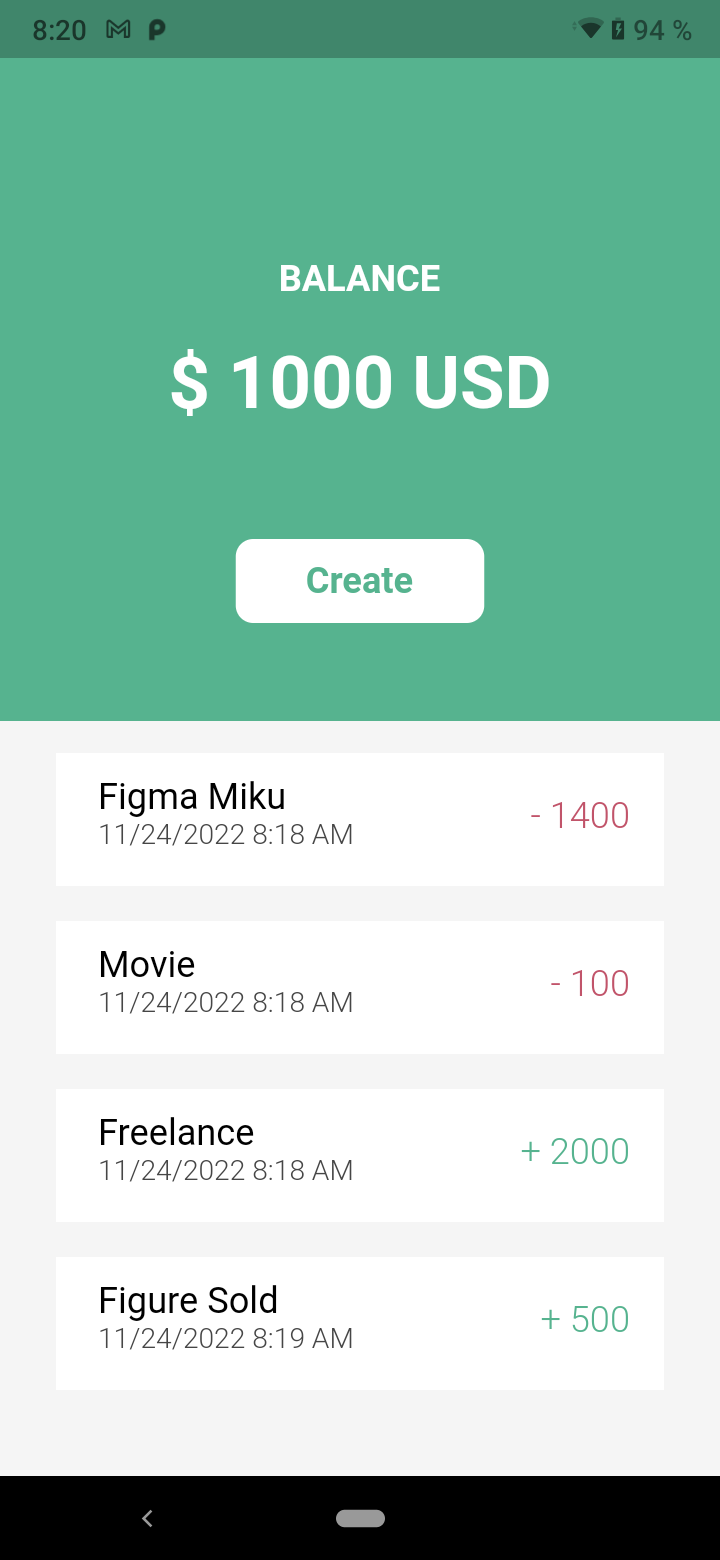
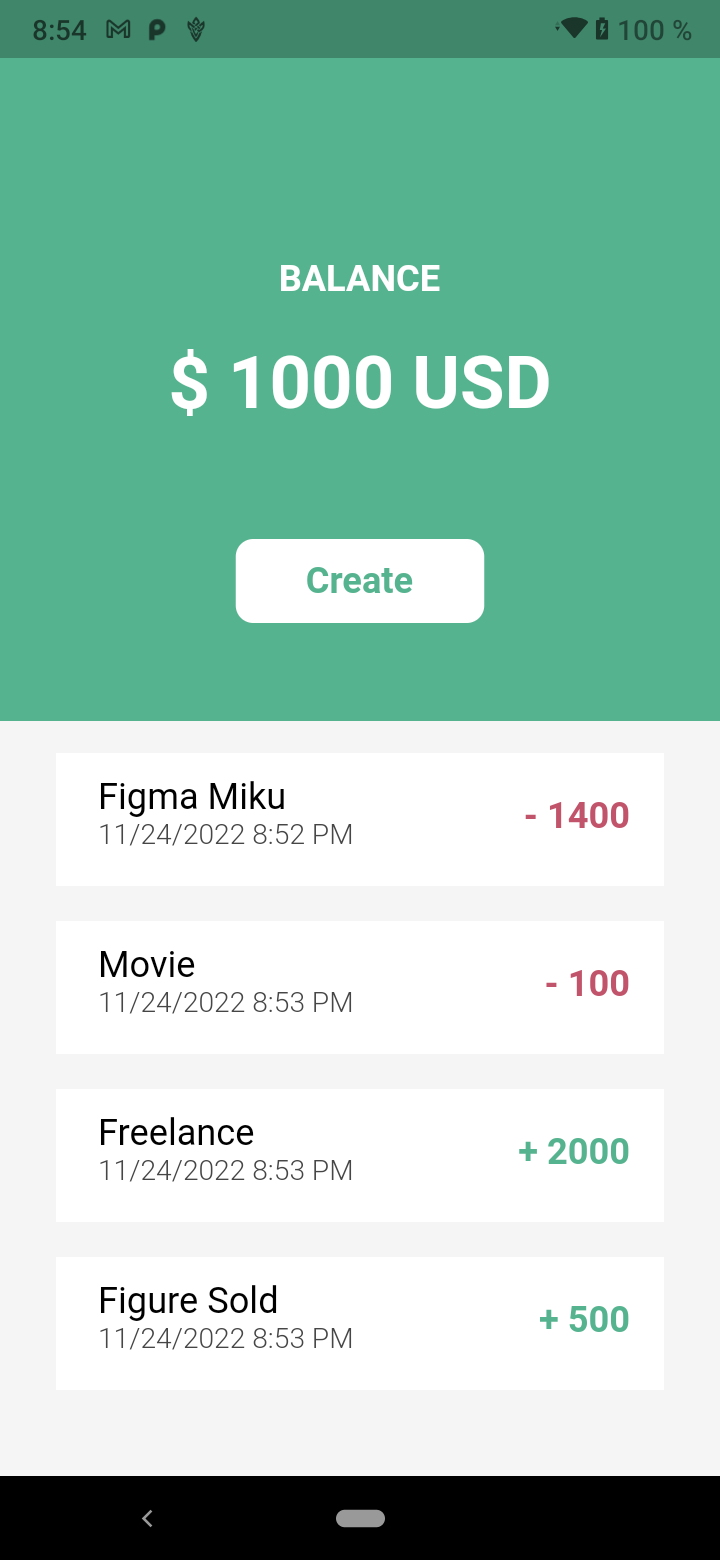
dialog widget

diff --git a/lib/custom_widgets/listmoves_card.dart b/lib/custom_widgets/listmoves_card.dart
@@ -1,4 +1,7 @@
 import 'package:flutter/material.dart';
+import 'package:provider_bank/constant/text_data.dart';
+import 'package:provider_bank/constant/widgets.dart';
+import 'package:provider_bank/utils/functions.dart';
 import 'package:provider_bank/utils/theme.dart';
 
 class ListMoves extends StatelessWidget {
@@ -18,38 +21,77 @@ class ListMoves extends StatelessWidget {
 
   @override
   Widget build(BuildContext context) {
-    return Row(
-      children: [
-        SizedBox(
-          width: 240,
-          child: ListTile(
-            title: Text(
-              title,
-              style: CustomTheme.title,
-              overflow: TextOverflow.clip,
-              softWrap: false,
-            ),
-            subtitle: Text(
-              createdTime,
-              style: CustomTheme.time,
+    return GestureDetector(
+      key: const Key('showDialogTap'),
+      onTap: (() {
+        showDialog(
+            context: context,
+            builder: ((context) {
+              return SimpleDialog(
+                backgroundColor: CustomTheme.dialogBack(isIncExp),
+                title: Text(
+                  TextData.dialog,
+                  style: CustomTheme.balance,
+                  textAlign: TextAlign.center,
+                ),
+                children: <Widget>[
+                  SimpleDialogOption(
+                    child: Column(
+                      mainAxisAlignment: MainAxisAlignment.center,
+                      crossAxisAlignment: CrossAxisAlignment.center,
+                      children: [
+                        Text(
+                          '${TextData.title}: $title',
+                          style: CustomTheme.title,
+                        ),
+                        Wds().sBox12(),
+                        Text(
+                          '${TextData.descr}: $description',
+                        ),
+                        Wds().sBox08(),
+                        Text(
+                          '${TextData.amount}: ' +
+                              Functions.textInEx(isIncExp, amount),
+                          style: CustomTheme.isInEx(isIncExp),
+                        ),
+                        Wds().sBox08(),
+                        Text(
+                          '${TextData.created}: $createdTime',
+                          style: CustomTheme.time,
+                        )
+                      ],
+                    ),
+                  ),
+                ],
+              );
+            }));
+      }),
+      child: Row(
+        children: [
+          SizedBox(
+            width: 240,
+            child: ListTile(
+              title: Text(
+                title,
+                style: CustomTheme.title,
+                overflow: TextOverflow.clip,
+                softWrap: false,
+              ),
+              subtitle: Text(
+                createdTime,
+                style: CustomTheme.time,
+              ),
             ),
           ),
-        ),
-        SizedBox(
-            //isIncExp
-            width: 80,
-            child: Text(
-              isIncExp == true ? '+ $amount' : '- $amount',
-              //style: CustomTheme.amount,
-              style: TextStyle(
-                  fontSize: 18.0,
-                  fontWeight: FontWeight.w300,
-                  color: isIncExp == true
-                      ? const Color.fromRGBO(86, 179, 143, 1)
-                      : const Color.fromRGBO(193, 84, 106, 1)),
-              textAlign: TextAlign.right,
-            ))
-      ],
+          SizedBox(
+              width: 80,
+              child: Text(
+                Functions.textInEx(isIncExp, amount),
+                style: CustomTheme.isInEx(isIncExp),
+                textAlign: TextAlign.right,
+              ))
+        ],
+      ),
     );
   }
 }

diff --git a/lib/utils/theme.dart b/lib/utils/theme.dart
@@ -29,6 +29,21 @@ class CustomTheme {
       fontWeight: FontWeight.w500,
       color: Color.fromRGBO(193, 84, 106, 1));
 
+  static isInEx(bool isIncExp) {
+    return TextStyle(
+        fontSize: 18.0,
+        fontWeight: FontWeight.w600,
+        color: isIncExp == true
+            ? const Color.fromRGBO(86, 179, 143, 1)
+            : const Color.fromRGBO(193, 84, 106, 1));
+  }
+
+  static dialogBack(bool isIncExp) {
+    return isIncExp == true
+        ? const Color.fromRGBO(187, 218, 206, 0.7)
+        : const Color.fromRGBO(220, 186, 193, 0.7);
+  }
+
   var themeBank = ThemeData(
     primaryColor: primaryColor,
     scaffoldBackgroundColor: const Color.fromRGBO(245, 245, 245, 1),
@@ -80,8 +95,9 @@ class CustomTheme {
       filled: true,
       fillColor: Colors.white,
     ),
-    listTileTheme: const ListTileThemeData(
-        //contentPadding: EdgeInsets.symmetric(vertical: 12.0),
-        ),
+    dialogTheme: const DialogTheme(
+      shape: RoundedRectangleBorder(
+          borderRadius: BorderRadius.all(Radius.circular(12.0))),
+    ),
   );
 }

diff --git a/integration_test/bank_provider_test.dart b/integration_test/bank_provider_test.dart
@@ -32,7 +32,11 @@ void main() {
         await tester.tap(addSubmitButton);
 
         var backButton = find.byTooltip('Back');
-        await tester.tap(backButton);
+        await tester.tap(backButton); //showDialogTap
+        await tester.pumpAndSettle();
+
+        var dialogTap = find.byKey(const Key('showDialogTap'));
+        await tester.tap(dialogTap);
         await tester.pumpAndSettle();
 
         expect(find.text('Figma Snow Miku'), findsOneWidget);

diff --git a/lib/constant/text_data.dart b/lib/constant/text_data.dart
@@ -16,4 +16,8 @@ class TextData {
   static String submit = 'SUBMIT';
   static String error = 'Error';
   static String noSend = 'Error: Incomplete data';
+
+  //Dialog
+  static String dialog = 'Your submit data';
+  static String created = 'Created At';
 }

diff --git a/lib/utils/functions.dart b/lib/utils/functions.dart
@@ -6,4 +6,8 @@ class Functions {
     String timeNow = DateFormat.yMd().add_jm().format(DateTime.now());
     return timeNow;
   }
+
+  static textInEx(bool isIncExp, num amount) {
+    return isIncExp == true ? '+ $amount' : '- $amount';
+  }
 }

diff --git a/README.md b/README.md
@@ -1,8 +1,12 @@
-# Classified App (UI)
+# Provider_Balance App
 A new Flutter project. Testing size in motorola E 6 plus using Vyzor.
 
 ## Practice Provider & Testing
 Karla Chable
+
+## Unit Tests & Integration Test
+- flutter test .\test\providers\bank_provider_test.dart
+- flutter test .\integration_test\bank_provider_test.dart
 
 ### Balance Home Screen
 ![RegisterScreen](./screenshots/BalanceHomeScreen.png)
@@ -12,3 +16,9 @@ Karla Chable
 
 ###  Balance Home Screen with Tasks
 ![LoginScreen](./screenshots/BalanceHomeTask.png)
+
+###  Balance Home Screen Dialog Tasks Income
+![LoginScreen](./screenshots/BalanceHomeTaskDialogInc.png)
+
+###  Balance Home Screen Dialog Tasks Expense
+![LoginScreen](./screenshots/BBalanceHomeTaskDialogExp.png)
